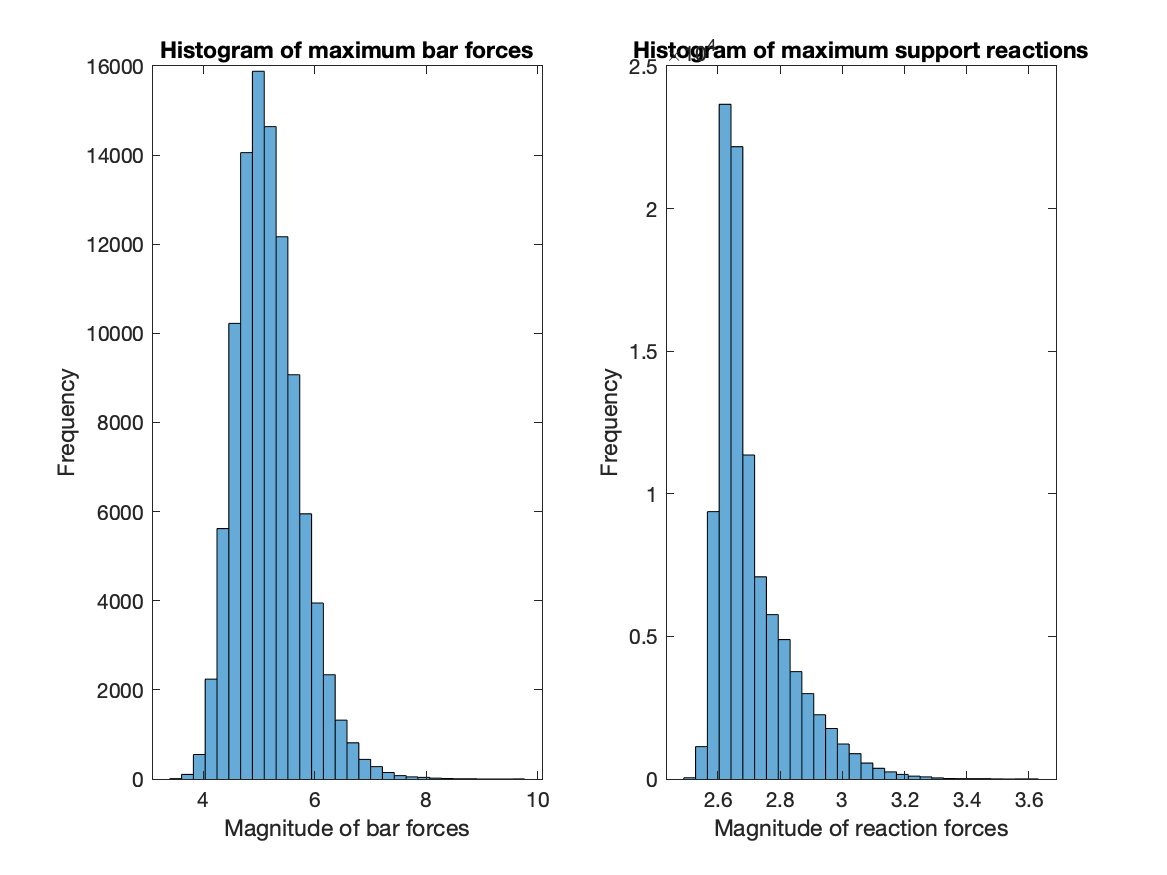
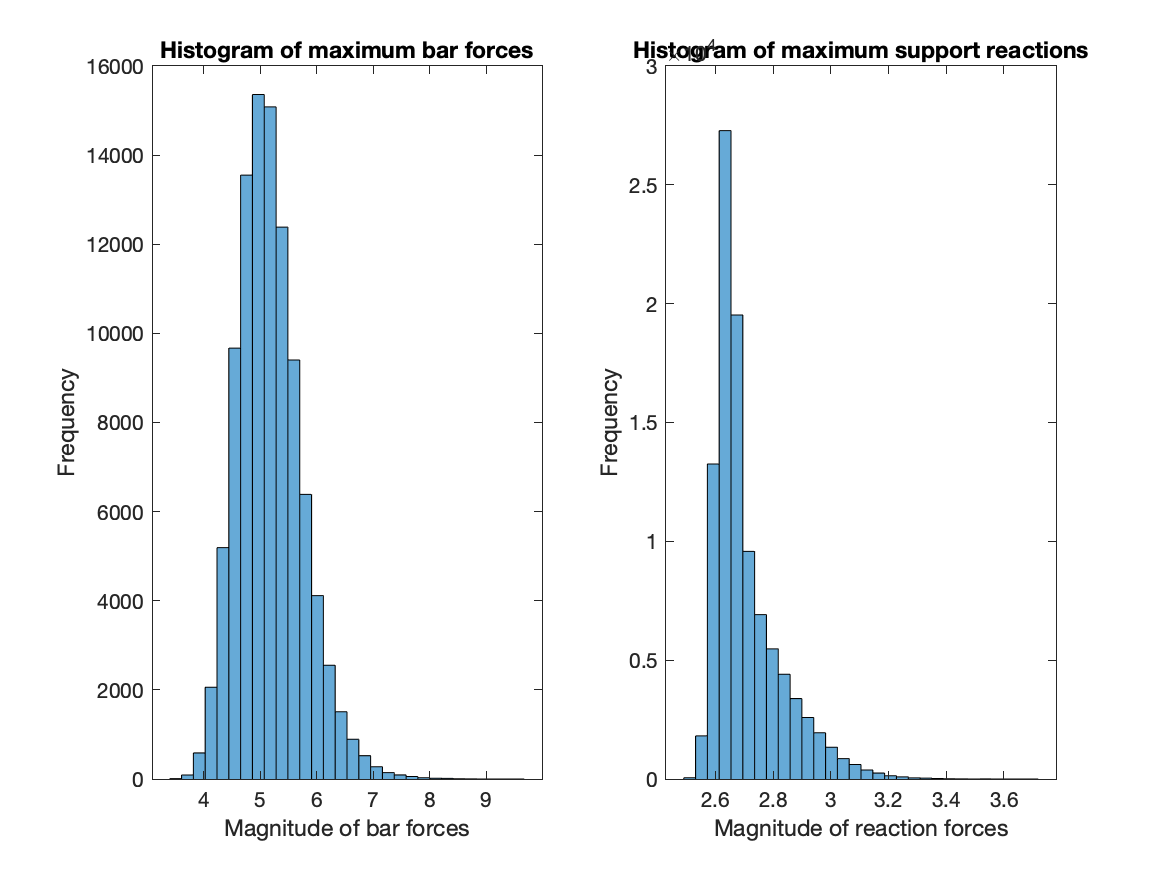
Working on the lab

diff --git a/Lab3/Lab3.m b/Lab3/Lab3.m
@@ -16,6 +16,7 @@ six_in_bar = 1.77 ; %N 6 inch bar
 twelve_in_bar = 2.94 ; %N 12 inch bar
 eighteen_in_bar = 3.92 ; %N 18 inch bar
 
+Thickness = 0.0206375; %in meter.
 %% read test data:
 
 [ TestData Comments ] = xlsread('TestData.xlsx');
@@ -38,15 +39,33 @@ Barlength = 36*0.0254 ; % in m
 bBend = (Barlength) - 2*BendData(:,3); % in meter
 bShear = (Barlength) - 2*ShearData(:,3); % in meter
 
-%% Shear/moment daiagram
+FoamLength = 3/4 * 0.0254 ; % in m
+BalsaLength = 1/32 * 0.0254 ; % in m
+Width = 4 * 0.0254; %in m
+%% Shear/moment daiagram : TEST DATA
 
 % do the shear/moment daiagrams for shear fail
 
 ShearDiagram_ShearFail = {};
 
+%place holders
+
+ShearStress_ShearFail = zeros(1,length(bShear));
+ShearStress_BendFail = zeros(1,length(bBend));
+RootFunction_ShearFail = {};
+
+%place holders for maximas
+Max_Shear_ShearFail = zeros(1,length(bShear));
+Max_Shear_BendFail = zeros(1,length(bBend));
+Max_Moment_ShearFail = zeros(1,length(bShear));
+Max_Moment_BendFail = zeros(1,length(bBend));
+
+
 for i =1:length(bShear)
 syms x
 ShearDiagram_ShearFail{i} = piecewise ( 0<x<ShearData(i,3) , ShearData(i,2)/2 , ShearData(i,3)<x<bShear(i)+ShearData(i,3) , 0 , bShear(i)+ShearData(i,3)<x<Barlength , -ShearData(i,2)/2 );
+Max_Shear_ShearFail(i) = double(max(subs(cell2sym(ShearDiagram_ShearFail(i)),[0:0.01:Barlength]))) ;
+ShearStress_ShearFail(i) = ((3/2) * (Max_Shear_ShearFail(i)) )/ (Width*FoamLength) ;
 
 end
 
@@ -57,8 +76,44 @@ ShearDiagram_BendFail = {};
 for i =1:length(bBend)
 syms x
 ShearDiagram_BendFail{i} = piecewise ( 0<x<BendData(i,3) , BendData(i,2)/2 , BendData(i,3)<x<bBend(i)+ BendData(i,3) , 0 , bBend(i)+BendData(i,3)<x<Barlength , -BendData(i,2)/2 );
+Max_Shear_BendFail(i) = double(max(subs(cell2sym(ShearDiagram_BendFail(i)),[0:0.01:Barlength]))) ;
+ShearStress_BendFail(i) = ((3/2) * (Max_Shear_BendFail(i)) )/ (Width*FoamLength) ;
 
 end
 
+%moment daiagarams = 
 
-%extract the related data:
+MomentDiagram_ShearFail = int(ShearDiagram_ShearFail,x);
+MomentDiagram_BendFail = int(ShearDiagram_BendFail,x);
+
+
+%loop to get max 
+
+for i =1:length(bShear)
+    
+Max_Moment_ShearFail(i) = double(max(subs(MomentDiagram_ShearFail(i),[0:0.01:Barlength]))) ;
+
+end
+
+for i =1:length(bBend)
+    
+Max_Moment_BendFail(i) = double(max(subs(MomentDiagram_BendFail(i),[0:0.01:Barlength]))) ;
+
+end
+
+%% get p(0), V, and M : DESIGN
+
+%{
+syms p0 x
+qx = 4*p0 * sqrt ( 1 - ((2*x)/Barlength)^2) ;
+
+%get V
+Vx = int(qx,p0,x);
+Mx = int(Vx,p0,x);
+
+% F = int(q(c),c,-l/2,l/2)
+V(x) = f/2 + int(q(x),x,-1/2,x)
+M(x) = int(V(x),x,-l/2,x)
+subs 
+
+%}
